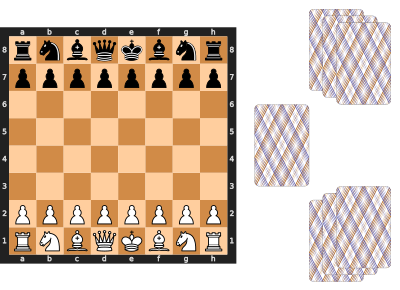
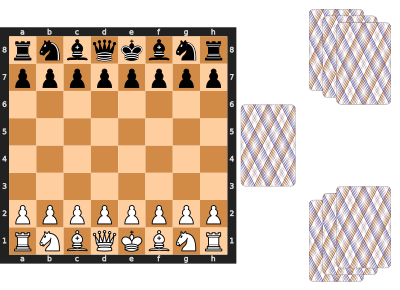
Add Cooperative Chess examples, for #10.

Changed region(s): [[0.6, 0.3414, 0.78, 0.6517]]

diff --git a/raw_rules/rules.md b/raw_rules/rules.md
@@ -321,7 +321,7 @@ cards to match the chess pieces, as shown in appendix A.
     card: back, 11, -1
     card: back, 11.5, -0.75
     card: back, 12, -0.5
-    card: back, 9, 2.5
+    card: back, 8.5, 2.5
     card: back, 11, 6
     card: back, 11.5, 5.75
     card: back, 12, 5.5
@@ -356,6 +356,68 @@ piece's card from your partner's discard stack to the captured cards stack. If
 you can make another capture move that matches the next card in your partner's
 stack, you may continue.
 
+As an example, imagine that black has a knight card, a bishop card, and a king
+card in hand with the following position:
+
+    r n b q k b n r
+    p p p . p p p p
+    . . . . . . . .
+    . . . P . . . .
+    . . . . P . . .
+    . . . . . . . .
+    P P . P . P P P
+    R N B Q K B N R
+    margins: 0, 1, 6, 1
+    card: back, 8.5, 2.5
+    card: 2D, 11, 2.5
+    card: 3D, 8.5, 6
+    card: 3S, 9, 6
+
+They can move the bishop to e6, play their bishop card, and then capture both
+pawns.
+
+    r n . q k b n r
+    p p p . p p p p
+    . . . . . . . .
+    . . . . . . . .
+    . . . . b . . .
+    . . . . . . . .
+    P P . P . P P P
+    R N B Q K B N R
+    margins: 0, 1, 6, 1
+    card: back, 8.5, 2.5
+    card: 2D, 11, 2.5
+    card: 3S, 11.5, 2.5
+    card: 3D, 12, 2.5
+    card: 9S, 8.5, -1
+    arrow: c8, e6, black
+    arrow: e6, d5, black
+    arrow: d5, e4, black
+
+The king can't get close enough to attack this turn, but the knight card
+might be an even better option:
+
+    r n b q k b . r
+    p p p . p p p p
+    . . . . . . . .
+    . . . P . . . .
+    . . . . . . . .
+    . . . . . . . .
+    P P . n . P P P
+    R N B Q K B N R
+    margins: 0, 1, 6, 1
+    card: back, 8.5, 2.5
+    card: 2D, 11, 2.5
+    card: 3S, 11.5, 2.5
+    card: 3D, 12, 2.5
+    card: 8C, 8.5, -1
+    arrow: g8, f6, black
+    arrow: f6, e4, black
+    arrow: e4, d2, black
+
+Now the knight can be attacked by anything except a pawn or a rook, and it can
+attack anything except a queen.
+
 There are two types of **wild** cards that can match any piece type. They may
 match different piece types when they capture and when they are captured.
 
@@ -367,6 +429,45 @@ match different piece types when they capture and when they are captured.
    piece and the captured piece match the colour of their cards, then the next
    captured card becomes wild, as long as you can capture it in the same turn.
    White pieces match red cards.
+
+In this slight change from the previous example, you might think that black can
+only capture one pawn.
+
+    r n b q k b n r
+    p p p . p p p p
+    . . . . . . . .
+    . . . P . . . .
+    . . . . P . . .
+    . . . . . . . .
+    P P . P . P P P
+    R N B Q K B N R
+    margins: 0, 1, 6, 1
+    card: back, 8.5, 2.5
+    card: 2D, 11, 2.5
+    card: 10C, 8.5, 6
+    card: 3D, 9, 6
+
+However, since white's pawn card matches colour, black can make the rook card
+wild by using a black card to capture a white pawn. Black could do either of the
+moves shown before, or even capture something bigger than a pawn:
+
+    r n . q k b n r
+    p p p . p p p p
+    . . . . . . . .
+    . . . P . . . .
+    . . . . . . . .
+    . . . . . . . .
+    P P . P . P P P
+    R b B Q K B N R
+    margins: 0, 1, 6, 1
+    card: back, 8.5, 2.5
+    card: 2D, 11, 2.5
+    card: 3D, 11.5, 2.5
+    card: 10C, 12, 2.5
+    card: 9S, 8.5, -1
+    arrow: c8, f5, black
+    arrow: f5, e4, black
+    arrow: e4, b1, black
 
 Castling is allowed. En passant capture is allowed. You may promote a pawn on
 the last rank to any other piece. It can be an effective way to get rid of your
@@ -421,7 +522,7 @@ changes:
   move through squares that are occupied by pieces on the other side of the
   mirror.
 * If you're playing with 12 checkers each, then you must have a free checker in
-  order to move piece without a checker.
+  order to move a piece without a checker.
 
 ### Winning
 Place the opponent's king in checkmate. A king may not evade check by switching
@@ -430,7 +531,7 @@ switch.
 
 In this example, the king cannot move to a8, because it would still be in check
 by the queen before switching. It can't move to b7, because it would be in check
-by the rook after switching. The only legal move is to a7.
+by the rook after switching.
 
     . k . Q . . . .
     . . . . . . . .
@@ -441,6 +542,20 @@ by the rook after switching. The only legal move is to a7.
     . . . . . . . .
     . . . . . . . K
     arrow: b6,b6,white
+
+The only legal move is to a7.
+
+    . . . Q . . . .
+    k . . . . . . .
+    . R . . . . . .
+    . . . . . . . .
+    . . . . . . . .
+    . . . . . . . .
+    . . . . . . . .
+    . . . . . . . K
+    arrow: b6,b6,white
+    arrow: b8,a7,black
+    arrow: a7,a7,black
 
 ## Chess960
 This is probably the least silly game in the collection; people organize

diff --git a/docs/rules.md b/docs/rules.md
@@ -308,6 +308,24 @@ piece's card from your partner's discard stack to the captured cards stack. If
 you can make another capture move that matches the next card in your partner's
 stack, you may continue.
 
+As an example, imagine that black has a knight card, a bishop card, and a king
+card in hand with the following position:
+
+![Diagram](images/rules/cooperative-chess2.png)
+
+They can move the bishop to e6, play their bishop card, and then capture both
+pawns.
+
+![Diagram](images/rules/cooperative-chess3.png)
+
+The king can't get close enough to attack this turn, but the knight card
+might be an even better option:
+
+![Diagram](images/rules/cooperative-chess4.png)
+
+Now the knight can be attacked by anything except a pawn or a rook, and it can
+attack anything except a queen.
+
 There are two types of **wild** cards that can match any piece type. They may
 match different piece types when they capture and when they are captured.
 
@@ -319,6 +337,17 @@ match different piece types when they capture and when they are captured.
    piece and the captured piece match the colour of their cards, then the next
    captured card becomes wild, as long as you can capture it in the same turn.
    White pieces match red cards.
+
+In this slight change from the previous example, you might think that black can
+only capture one pawn.
+
+![Diagram](images/rules/cooperative-chess5.png)
+
+However, since white's pawn card matches colour, black can make the rook card
+wild by using a black card to capture a white pawn. Black could do either of the
+moves shown before, or even capture something bigger than a pawn:
+
+![Diagram](images/rules/cooperative-chess6.png)
 
 Castling is allowed. En passant capture is allowed. You may promote a pawn on
 the last rank to any other piece. It can be an effective way to get rid of your
@@ -373,7 +402,7 @@ changes:
   move through squares that are occupied by pieces on the other side of the
   mirror.
 * If you're playing with 12 checkers each, then you must have a free checker in
-  order to move piece without a checker.
+  order to move a piece without a checker.
 
 ### Winning
 Place the opponent's king in checkmate. A king may not evade check by switching
@@ -382,9 +411,13 @@ switch.
 
 In this example, the king cannot move to a8, because it would still be in check
 by the queen before switching. It can't move to b7, because it would be in check
-by the rook after switching. The only legal move is to a7.
+by the rook after switching.
 
 ![Diagram](images/rules/half-alice-chess1.png)
+
+The only legal move is to a7.
+
+![Diagram](images/rules/half-alice-chess2.png)
 
 ## Chess960
 This is probably the least silly game in the collection; people organize
